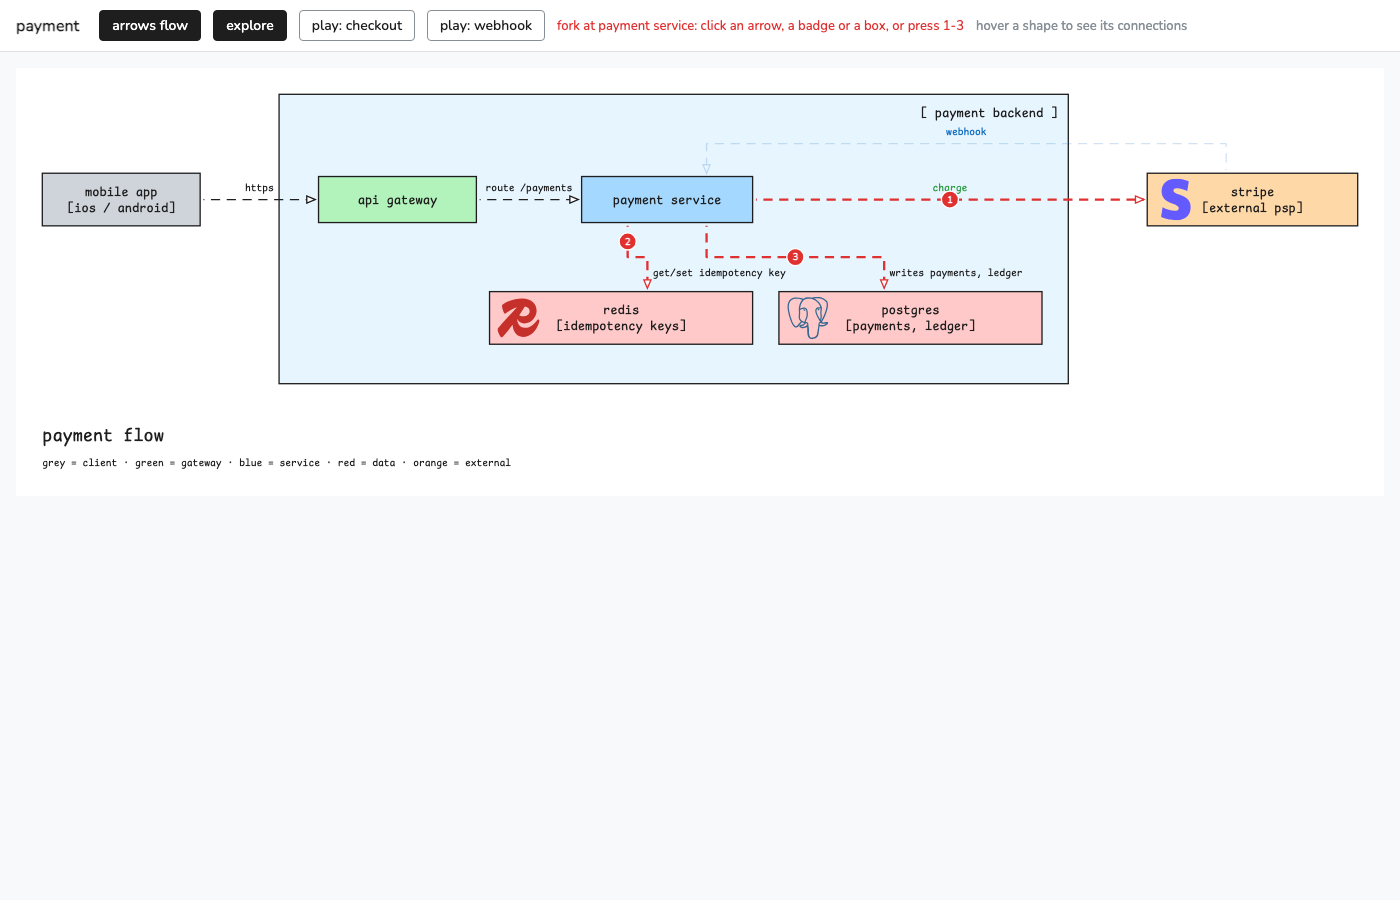
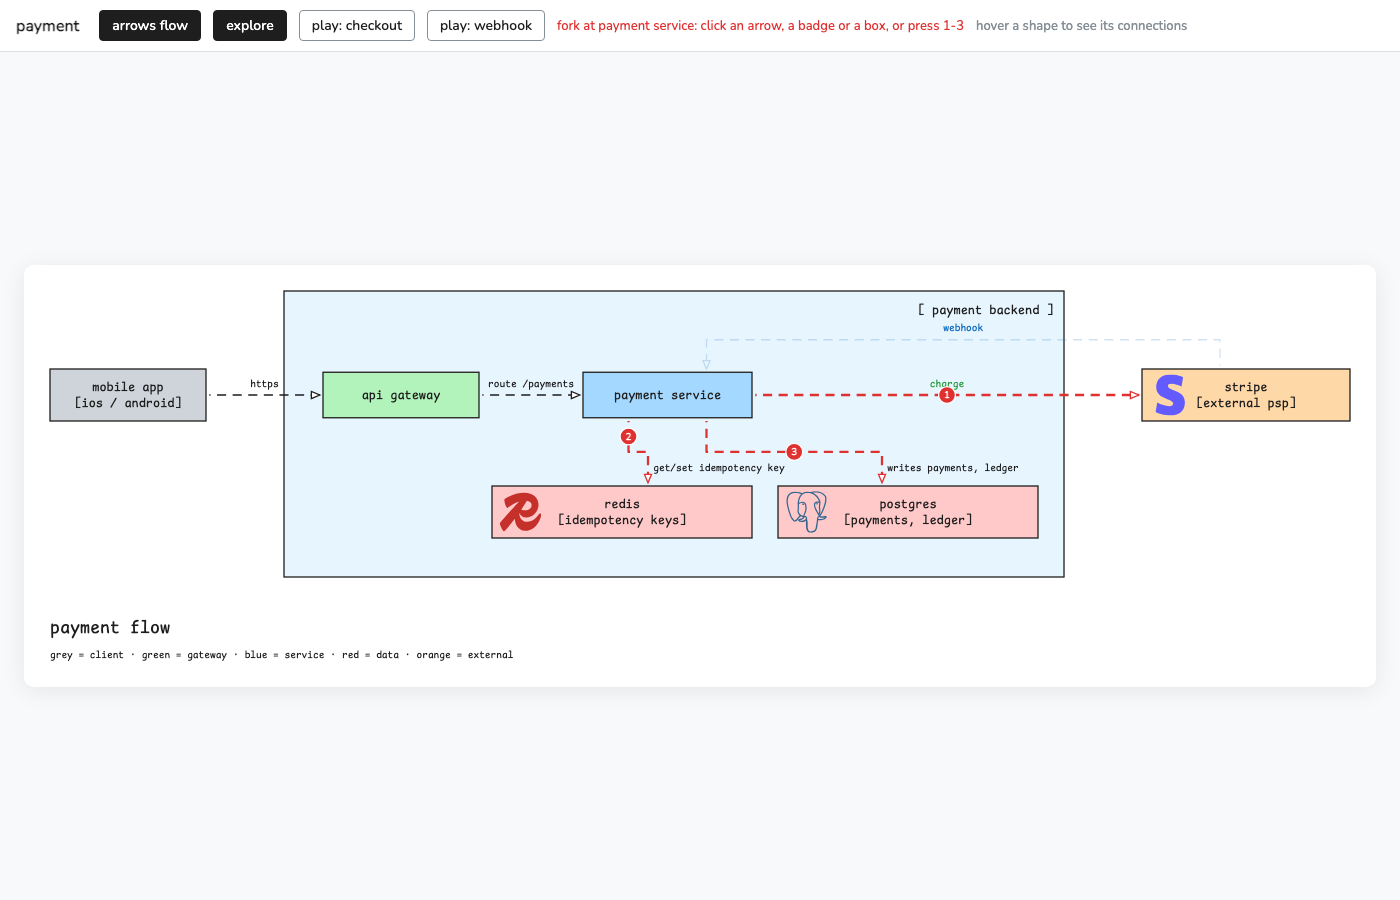
feat(html): centre the drawing on screen in a card, fit it to the window
The page used to pin the SVG to the top-left. It now sits in the middle of the
viewport, as large as the window allows, on a white card with a soft shadow.
Also fixes the \s escape in the page script that raised a SyntaxWarning.

diff --git a/skills/prettier-excalidraw/scripts/export.py b/skills/prettier-excalidraw/scripts/export.py
@@ -103,14 +103,15 @@ def to_png(svg, out, scale=2):
 
 
 HTML_CSS = """
-body{margin:0;background:#f8f9fa;color:#1e1e1e;font-family:'Nunito',system-ui,sans-serif}
+body{margin:0;min-height:100vh;display:flex;flex-direction:column;background:#f8f9fa;color:#1e1e1e;font-family:'Nunito',system-ui,sans-serif}
 .bar{display:flex;flex-wrap:wrap;gap:8px 12px;align-items:center;padding:10px 16px;background:#fff;border-bottom:1px solid #dee2e6}
 .bar button{font:inherit;font-size:14px;padding:5px 12px;border:1px solid #868e96;border-radius:4px;background:#fff;color:#1e1e1e;cursor:pointer}
 .bar button.on{background:#1e1e1e;color:#fff;border-color:#1e1e1e}
 .bar .hint{color:#868e96;font-size:13px}
 .bar .title{font-weight:700;margin-right:8px}
-main{padding:16px}
-svg{display:block;max-width:100%;height:auto;margin:0 auto;background:#fff}
+/* the drawing sits in the middle of the screen, as large as the window allows */
+main{flex:1;display:flex;align-items:center;justify-content:center;padding:24px;box-sizing:border-box}
+svg{display:block;width:auto;height:auto;max-width:100%;max-height:calc(100vh - 110px);background:#fff;border-radius:10px;box-shadow:0 4px 24px rgba(0,0,0,.08)}
 /* flow: dashes travel along the line in the arrow's direction; heads stay solid */
 @keyframes flow{to{stroke-dashoffset:-36}}
 svg.flowing .arrow:not([data-flow=off]) .line{stroke-dasharray:14 10;animation:flow 1s linear infinite}
@@ -188,7 +189,7 @@ function go(a){const w=walk;w.choices=null;arrows.forEach(x=>x.classList.remove(
   a.classList.add('step');w.visited.add(a.id);w.last=a;w.cur=other(a,w.cur);status.textContent='';timer=setTimeout(stepWalk,700)}
 function pick(i){if(walk&&walk.choices&&walk.choices[i])go(walk.choices[i])}
 const NS='http://www.w3.org/2000/svg';
-function mid(a){const pts=a.querySelector('.line').getAttribute('points').trim().split(/\s+/).map(p=>p.split(',').map(Number));
+function mid(a){const pts=a.querySelector('.line').getAttribute('points').trim().split(/\\s+/).map(p=>p.split(',').map(Number));
   let best=pts[0],bl=-1;for(let i=0;i+1<pts.length;i++){const [x0,y0]=pts[i],[x1,y1]=pts[i+1],l=Math.hypot(x1-x0,y1-y0);if(l>bl){bl=l;best=[(x0+x1)/2,(y0+y1)/2]}}return best}
 function badge(a,n){let g=svg.querySelector('g.badges');if(!g){g=document.createElementNS(NS,'g');g.setAttribute('class','badges');svg.appendChild(g)}
   const [x,y]=mid(a),c=document.createElementNS(NS,'g');
